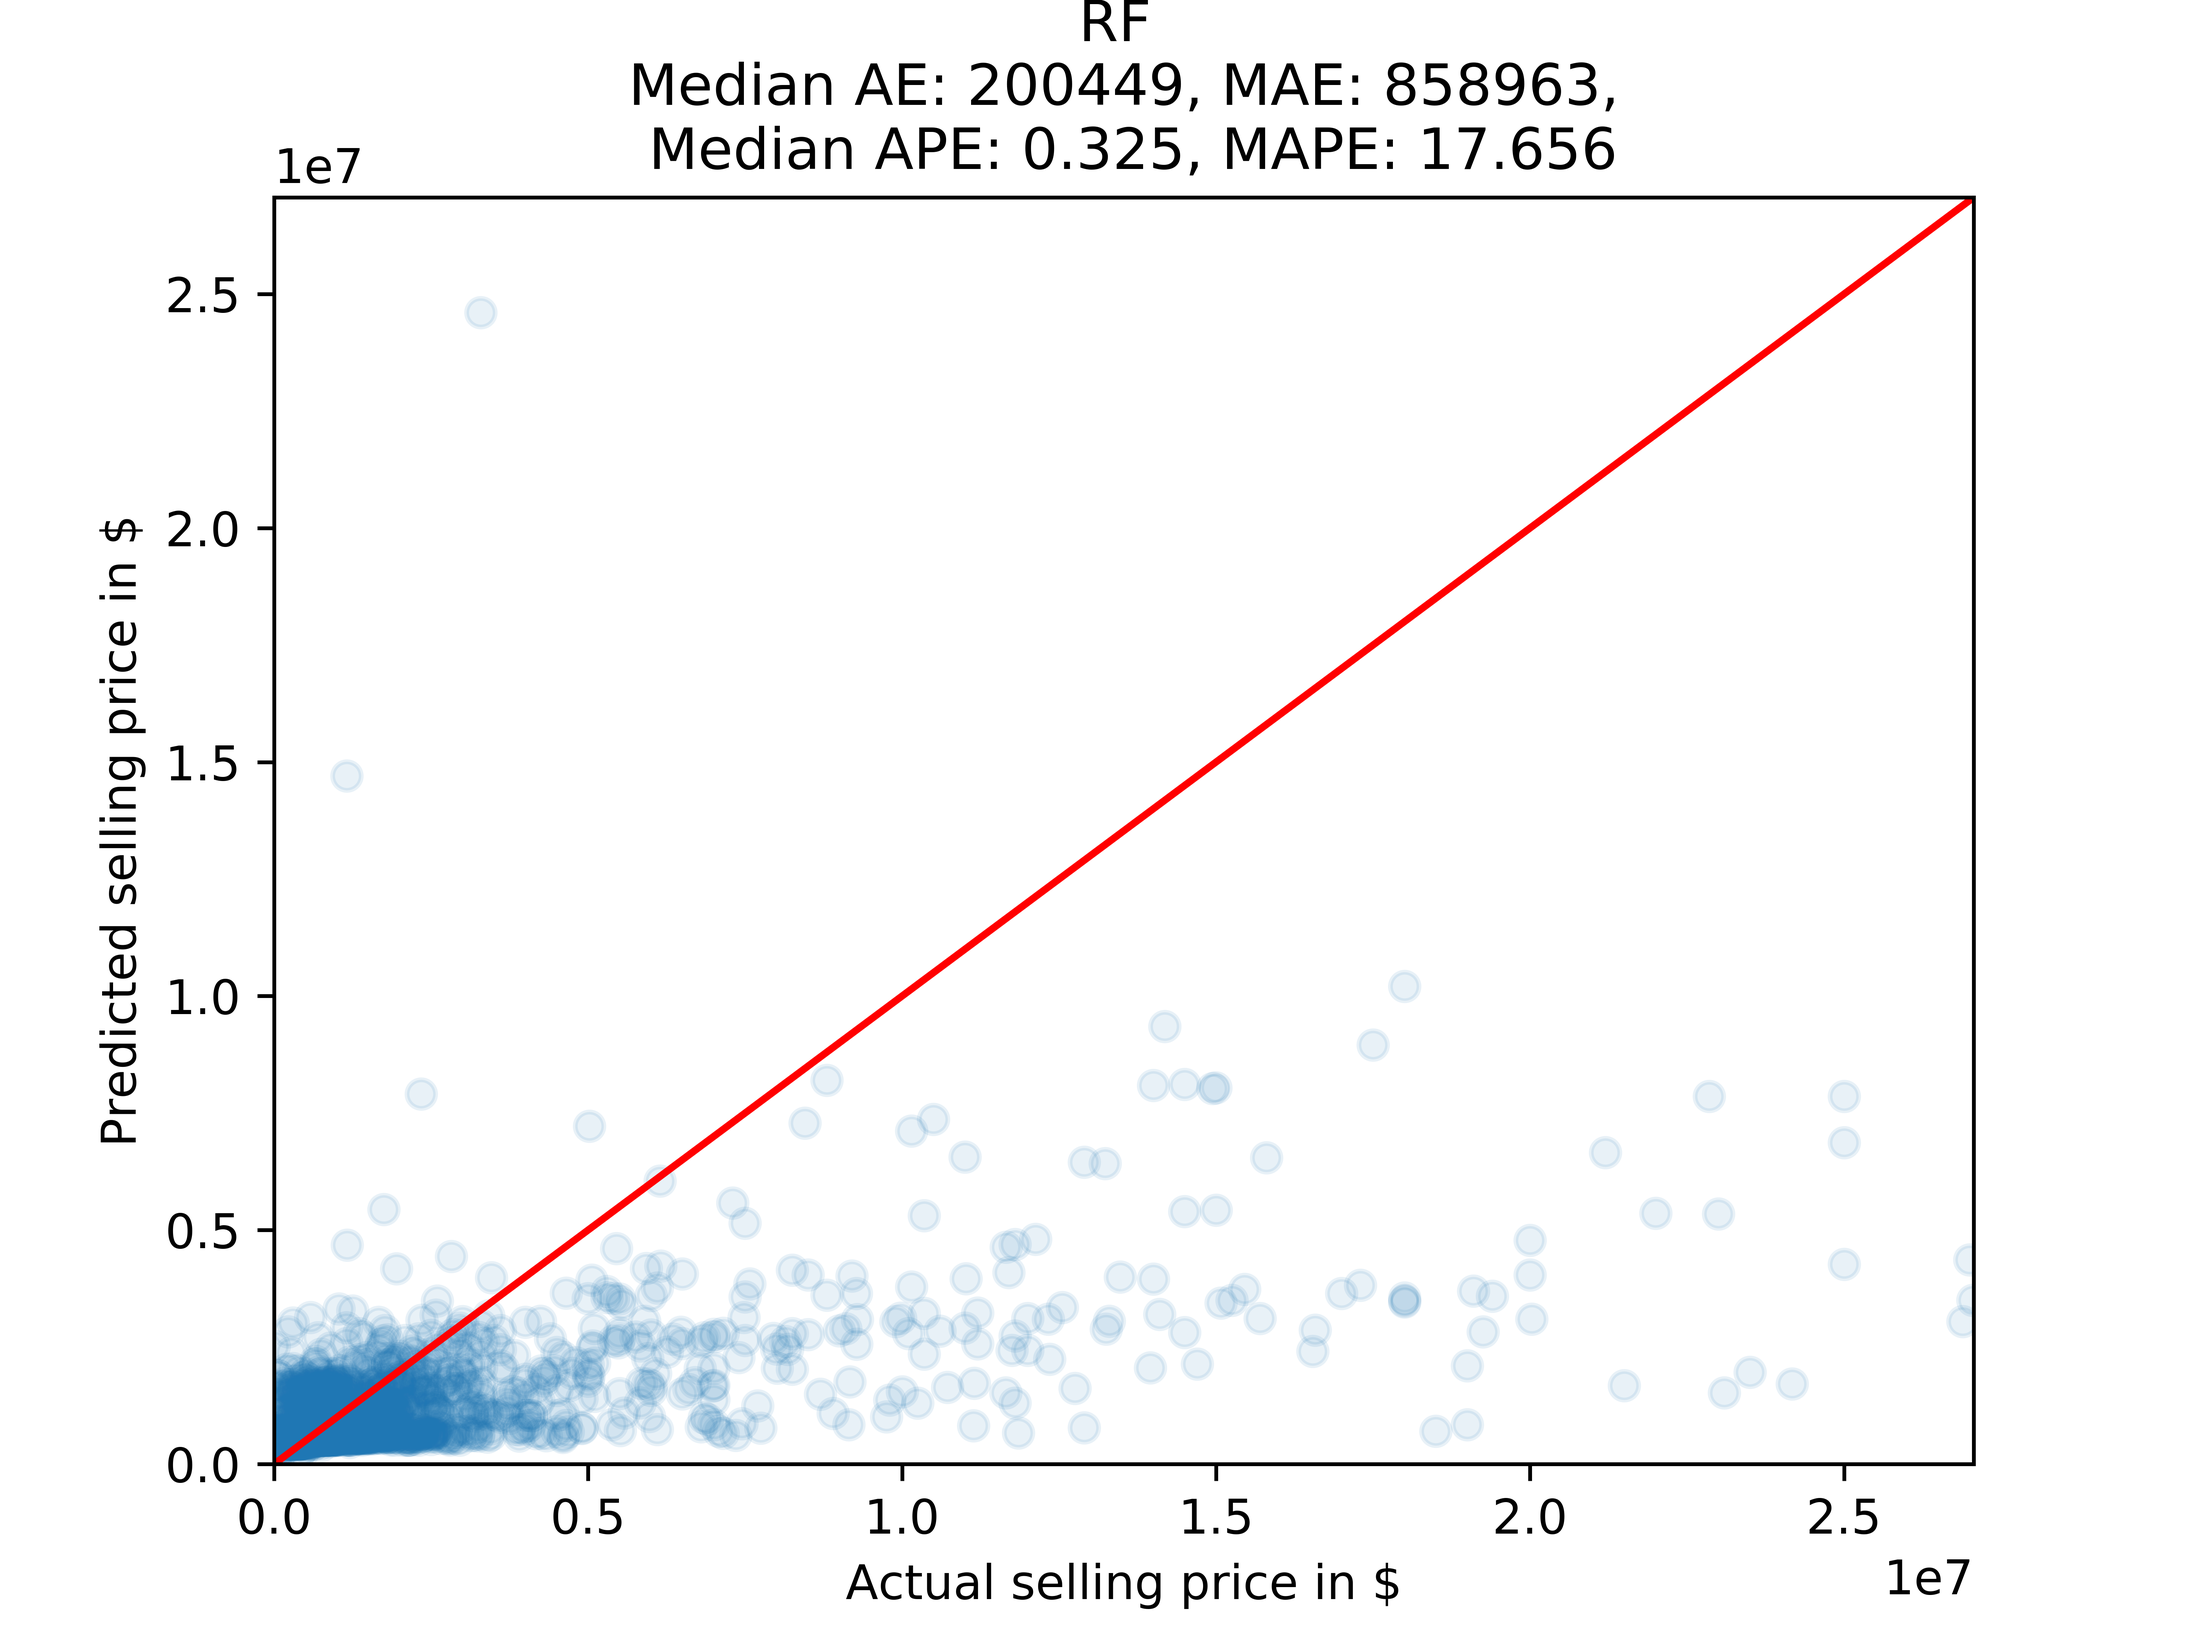
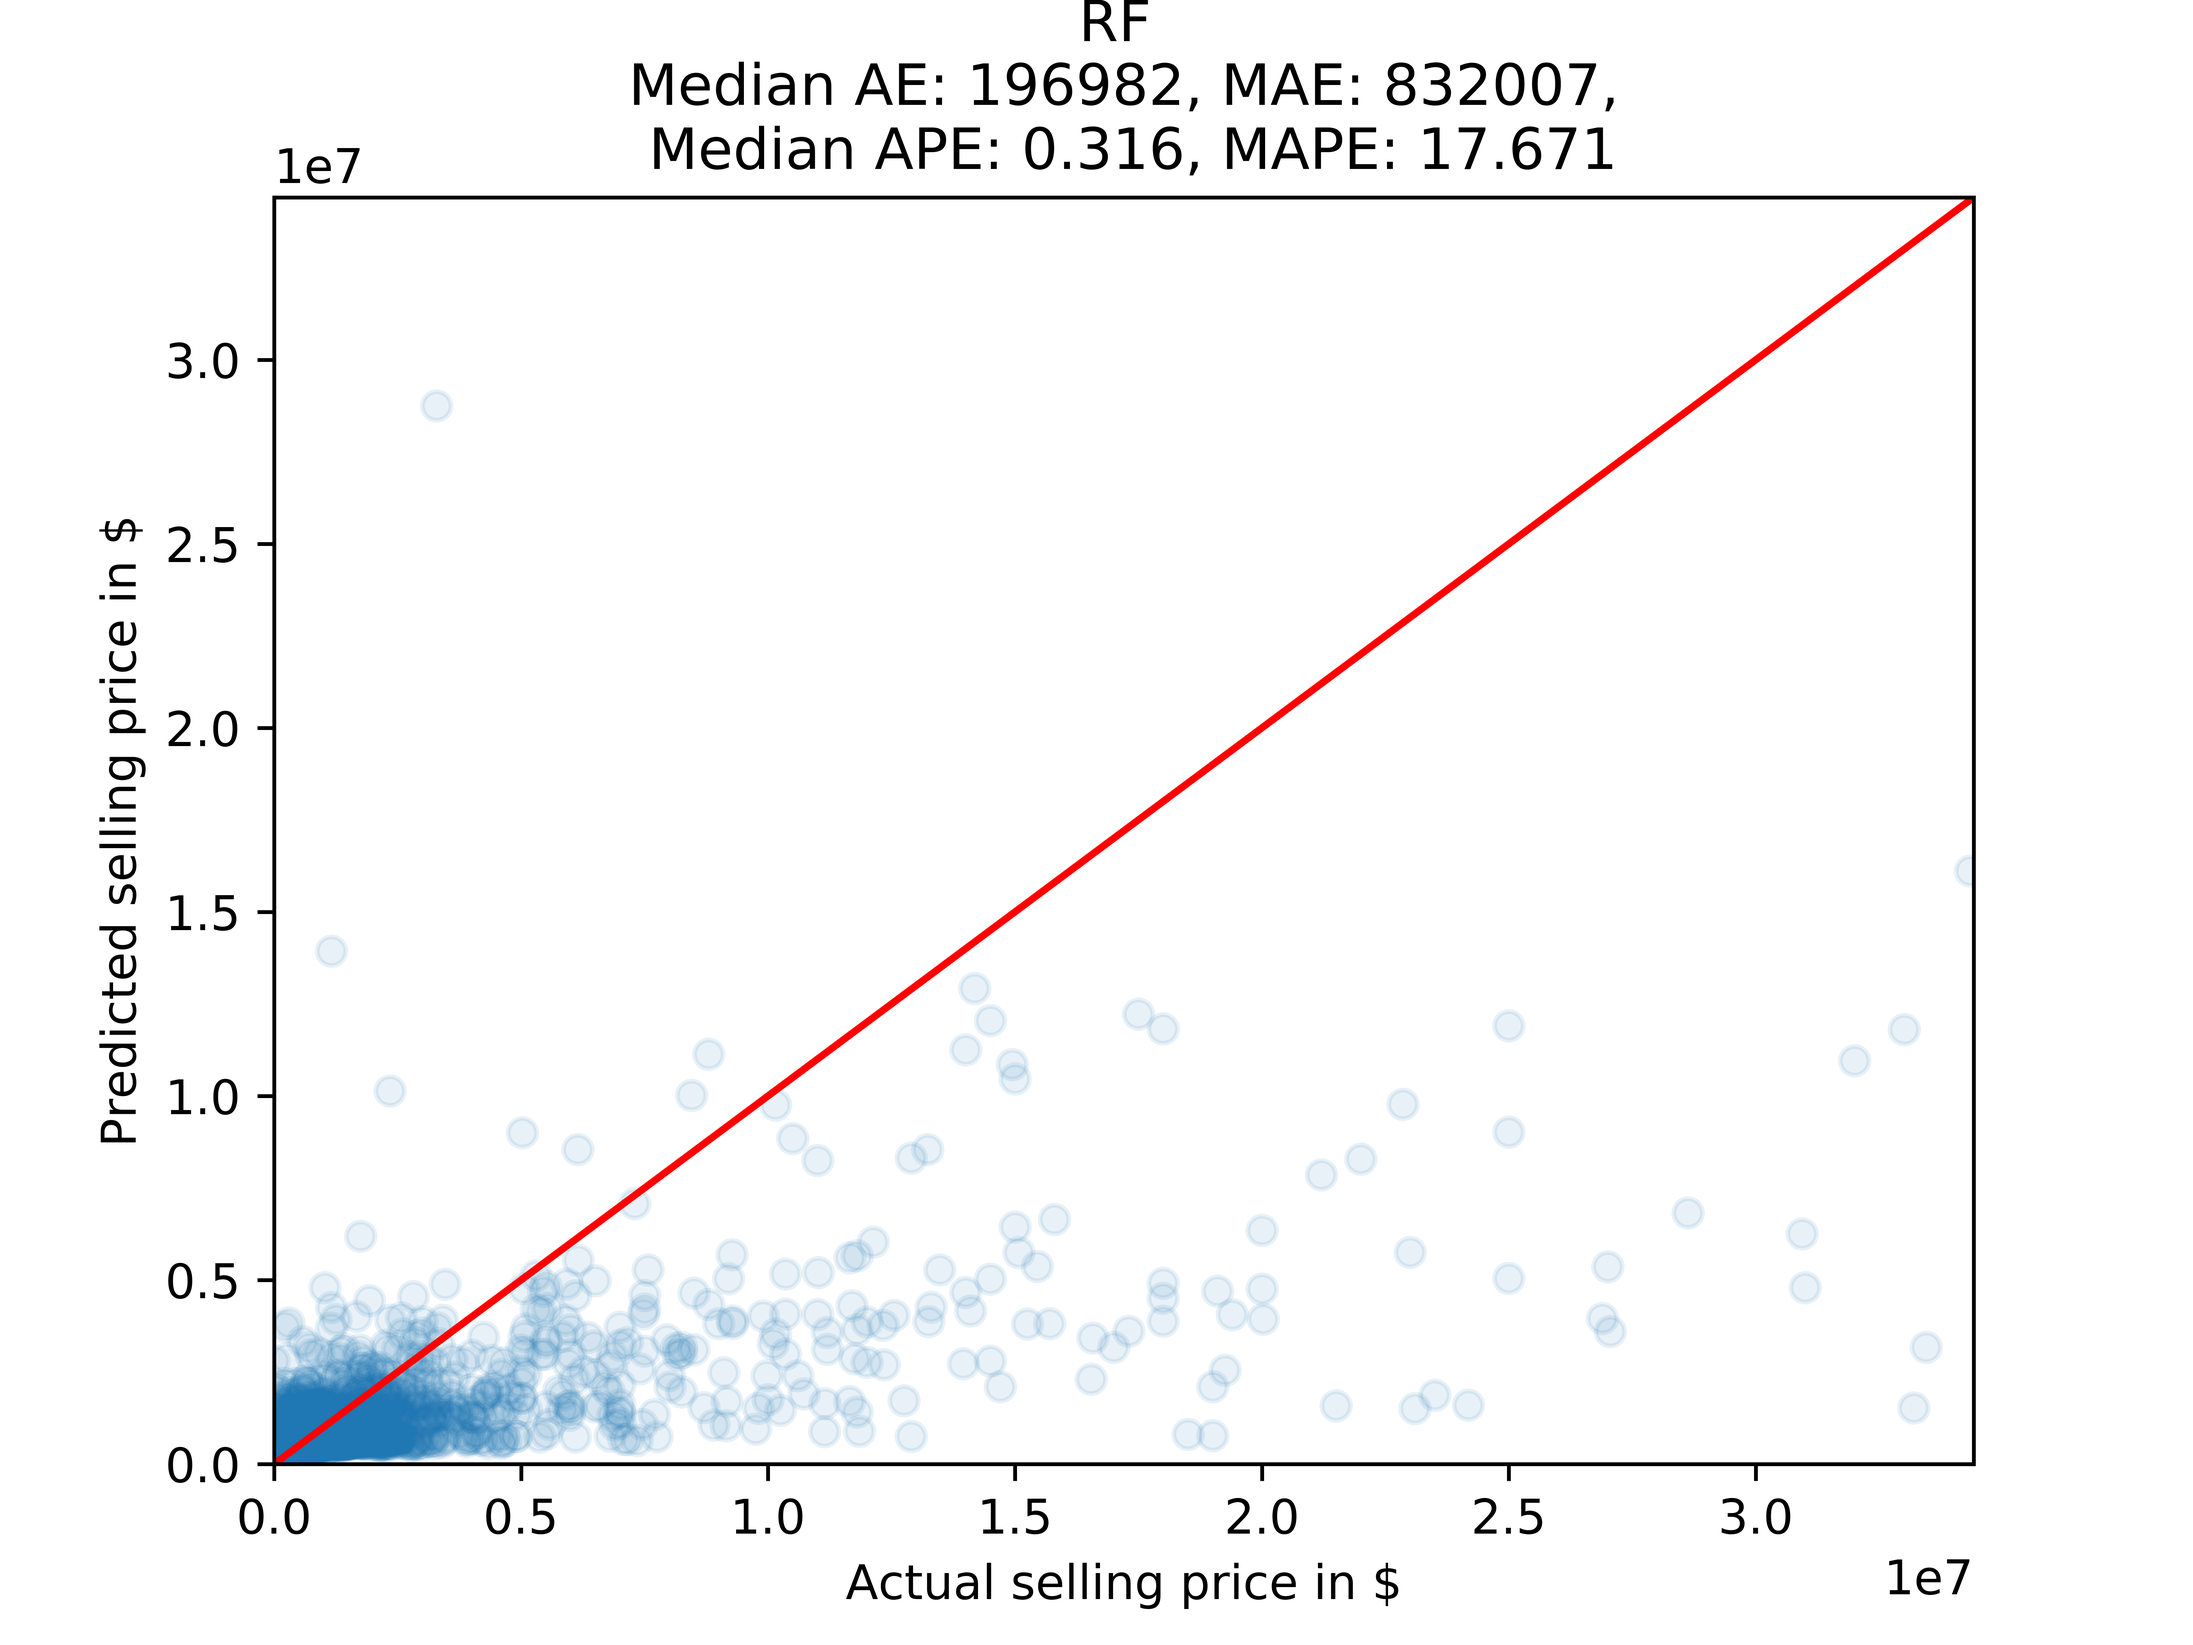
Added graphs zooming in on main data

diff --git a/tune_predict_evaluate.py b/tune_predict_evaluate.py
@@ -72,8 +72,17 @@ def median_absolute_percentage_error(y_true, y_pred):
     return(output_errors)
 
 
-def plot_model_performance(y_pred, y_test, model_name):
+def plot_model_performance(y_pred, y_test, model_name, zoom = False):
     """Save a scatter plot of the predicted vs actuals."""
+
+    "zoom: If yes, zoom in on the part of the distribution where most data lie."
+
+    if (zoom == True):
+        axes_limit = 0.2 * 1e7
+        path_suffix = "_zoom"
+    else:
+        axes_limit = y_pred.max()*1.1
+        path_suffix = ""
 
     fig, ax = plt.subplots()
 
@@ -92,10 +101,10 @@ def plot_model_performance(y_pred, y_test, model_name):
     ax.set(title=subplot_title,
            xlabel='Actual selling price in $',
            ylabel='Predicted selling price in $',
-           xlim=(0, y_pred.max()*1.1),
-           ylim=(0, y_pred.max()*1.1)
+           xlim=(0, axes_limit),
+           ylim=(0, axes_limit)
     )
-    fig.savefig("./figures/model_performance_" + model_name + ".png", dpi=1000)
+    fig.savefig("./figures/model_performance_" + model_name + path_suffix + ".png", dpi=1000)
     plt.close(fig)
 
 # train-test split ------------------------------------------------------------
@@ -134,9 +143,9 @@ models.append((
         'RF',
          RandomForestRegressor(
                                random_state = random_seed),
-                               [{'ttregressor__regressor__max_features':[2,5,15,25],
-                                 "ttregressor__regressor__max_depth":[3, 9],
-                                 "ttregressor__regressor__n_estimators":[50, 500]}])
+                               [{'ttregressor__regressor__max_features': [5,15,25, 35],
+                                 "ttregressor__regressor__max_depth": [9],
+                                 "ttregressor__regressor__n_estimators": [500]}])
          )
 
 # Tune and evaluate models-----------------------------------------------------
@@ -180,6 +189,7 @@ for name, model, grid in models:
     msg_time = 'Tuning the ' + name + ' model took ' + str(round(t1 - t0, 2)) + ' seconds.'
     logging.info(msg_time)
     plot_model_performance(y_pred, y_test, name)
+    plot_model_performance(y_pred, y_test, name, zoom=True)
 
 # Models that are not tuned----------------------------------------------------
 
@@ -196,6 +206,7 @@ lin_reg = Pipeline([('scaling', StandardScaler()),
 lin_reg.fit(X_train, y_train)
 y_pred = lin_reg.predict(X_test)
 plot_model_performance(y_pred, y_test, "lin_reg")
+plot_model_performance(y_pred, y_test, "lin_reg", zoom=True)
 
 ## LGBM
 # create dataset for lightgbm using log-transform for selling price
@@ -235,8 +246,4 @@ logging.info("R2 score: " + str(round(r2_score(y_test, y_pred),3)))
 logging.info('MAE: ' + str(round(mean_absolute_error(y_test, y_pred), 2)))
 
 plot_model_performance(y_pred, y_test, "lgbm")
-
-
-# TO DO
-
-# Impute missing data
+plot_model_performance(y_pred, y_test, "lgbm", zoom=True)

diff --git a/README.md b/README.md
@@ -4,7 +4,7 @@
 In this project, I try to predict the price of houses sold in NYC in 2016 and 2017.
 
 ## Data
-The data is provided at and was downloaded from kaggle (https://www.kaggle.com/new-york-city/nyc-property-sales/version/1). The data on kaggle is a “concatenated and slightly cleaned-up version of the New York City Department of Finance’s Rolling Sales dataset”. For data cleaning purposes, I used info on variables from (https://www.kaggle.com/saswataroy09/new-york-house-price-prediction)
+The data is provided at and was downloaded from kaggle (https://www.kaggle.com/new-york-city/nyc-property-sales/version/1). The data on kaggle is a “concatenated and slightly cleaned-up version of the New York City Department of Finance’s Rolling Sales dataset”. Info on the variable definitions is available (https://www.kaggle.com/saswataroy09/new-york-house-price-prediction)
 
 ## Methodology
 Using a 80-20 train-test split, I train different models on the training set, tune them via cross-validation and evaluate their predictive performance on the test set. The models used are:
@@ -18,11 +18,11 @@ Using a 80-20 train-test split, I train different models on the training set, tu
 ## Main results
 So far, the best results are attained by Gradient Boosting, with an Median absolute error of $119k and a median percentage error of 18% given a median selling price of $630k.
 
-![Results](/figures/model_performance_lgbm.png)
+![Results](/figures/model_performance_lgbm_zoom.png)
 
 ## To do
 
 * Extract and generated better features
 * Improve the tuning grids
 
-The full code is located in the [Link to main.py file](main.py) file.
+The full code is located in the [pre_process file](pre_process.py) and the  [tune_predict_evaluate file](tune_predict_evaluate.py).
